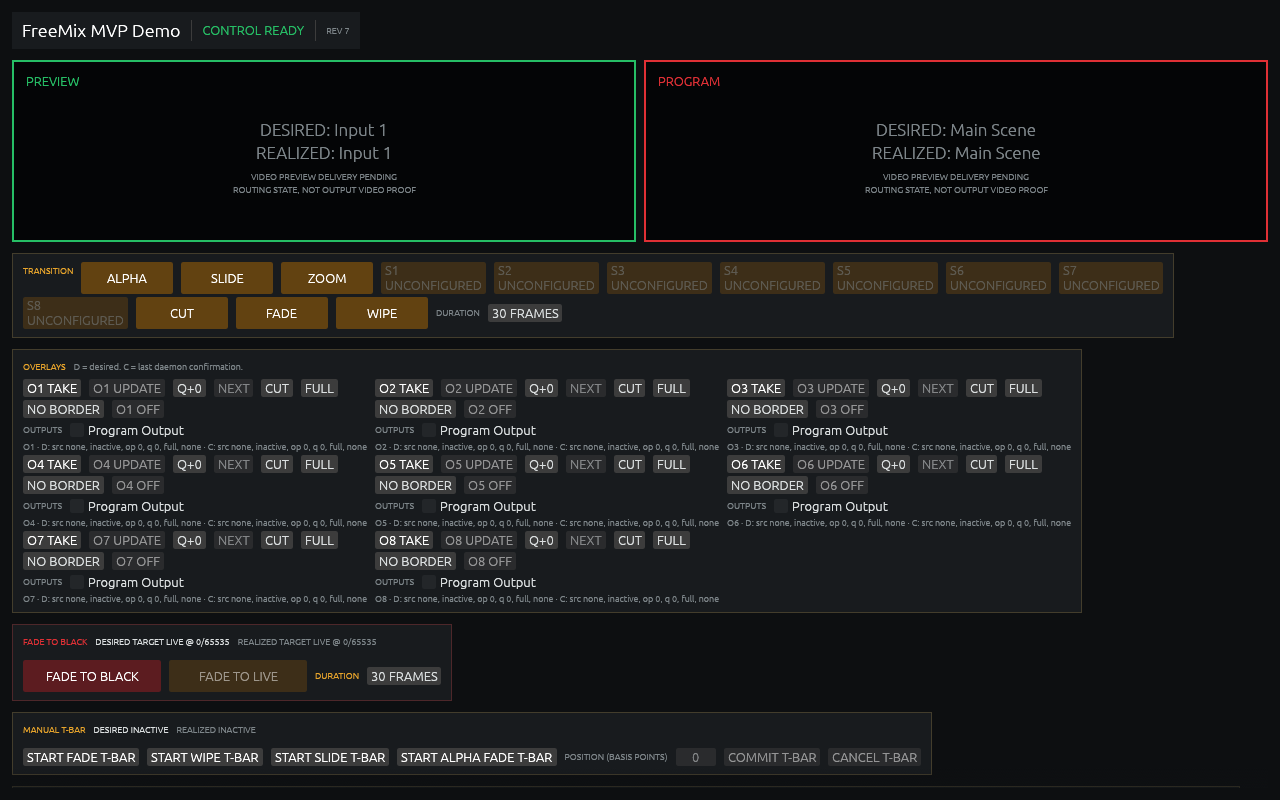
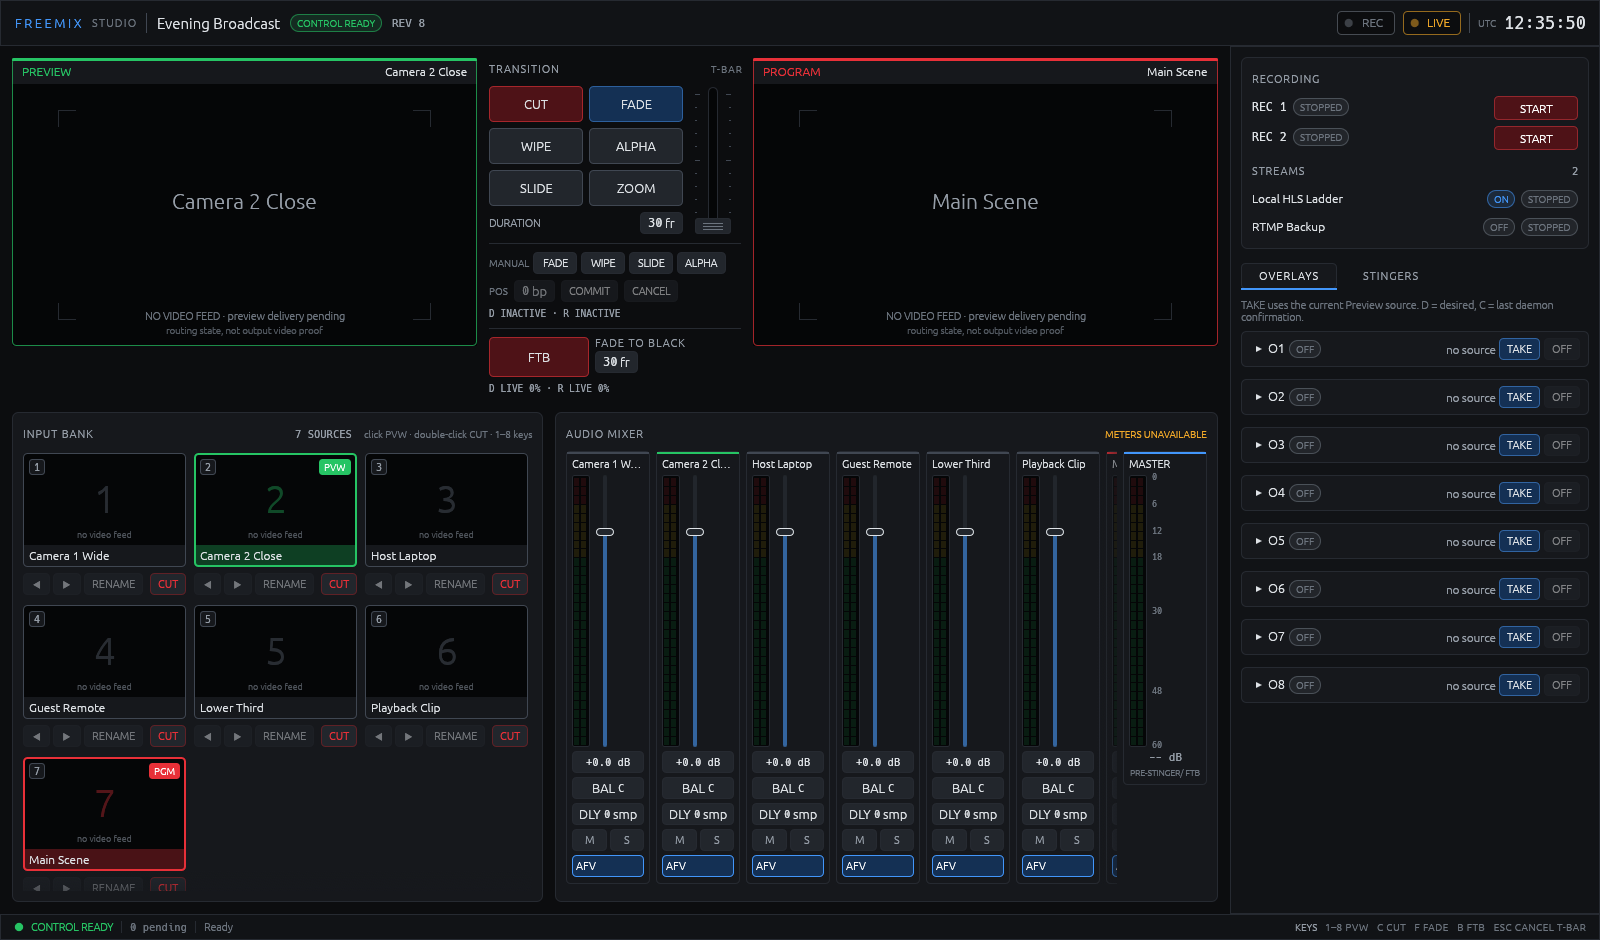
docs(progress): refresh Studio screenshots for the production layout

diff --git a/docs/progress/README.md b/docs/progress/README.md
@@ -2,37 +2,81 @@
 
 Captured from the native `freemix-studio` console running headless on this
 development host (Linux aarch64, Xvfb + Mesa lavapipe software Vulkan). The
-supervised daemon runs in simulated mode, so audio meters report
-`UNAVAILABLE` and the monitor wells show replicated routing state with the
-explicit `VIDEO PREVIEW DELIVERY PENDING` note rather than output video.
+supervised daemon runs in simulated mode, so the mixer header reports
+`METERS UNAVAILABLE` with unlit meter wells, and the Preview/Program monitors
+show replicated routing state over a dark 16:9 well with the explicit
+`NO VIDEO FEED · preview delivery pending` caption rather than output video.
+
+The console layout: a top bar (show name, connection pill, revision, `REC` and
+`LIVE` on-air badges, UTC clock); Preview and Program monitors with tally
+headers around the transition column (Cut/Fade/Wipe/Alpha/Slide/Zoom keys,
+shared duration, vertical manual T-bar with its start/commit/cancel keys, and
+Fade-to-Black); the input bank as tally-bordered tiles (click = Preview,
+double-click or `CUT` = Preview then Cut); the audio mixer with vertical
+channel strips (segmented peak/RMS meters, fader, gain/balance/delay, M/S/AFV)
+and a pinned Master meter strip; a side panel with recording and stream status
+above Overlays/Stingers tabs; and a bottom status bar with the latest
+result/notice and keyboard hints.
 
 | File | What it shows |
 |---|---|
-| `studio-console-top.png` | Default 1280x800 window: header with readiness/revision, Program/Preview monitor wells, the transition row (Cut/Fade/Wipe/AlphaFade/Slide/Zoom plus eight unconfigured stinger slots), all eight overlay channels in reachable rows, and the Fade-to-Black and manual T-bar panels. |
-| `studio-console-stopped.png` | Scrolled lower console: Fade-to-Black, manual T-bar, per-input audio strips, the stream roster (local HLS ladder desired-running plus an RTMP backup), the two-row **RECORDING** panel with both recorder slots `STOPPED` and their `START` actions, and the input bank with Preview/Program tally. |
-| `studio-console-recording.png` | The same console with independent per-slot recording: `REC 1 STOPPED` with its `START` action beside `REC 2 RECORDING` with its `STOP` action. |
+| `studio-console-overview.png` | 1920x1080 overview: REC 2 recording (red `REC` badge lit), overlay O1 taken from Preview and confirmed `ON AIR` (also badged on the Program header), the HLS ladder desired running but not reported live (amber `LIVE` outline), Camera 2 Close on Preview and Main Scene on Program. |
+| `studio-console-top.png` | The default 1600x940 window, idle: both recorder slots `STOPPED` with their `START` keys, overlays collapsed to one row per channel. |
+| `studio-console-stopped.png` | The compact 1280x800 layout with both recorder slots `STOPPED`; the input bank and mixer scroll inside their cards and the Master strip stays pinned. |
+| `studio-console-recording.png` | 1600x940 with independent per-slot recording (`REC 1 STOPPED` / `START` beside `REC 2 RECORDING` / `STOP`) and the Stingers tab showing all eight unconfigured slots. |
 
-The demo show used for the captures has six simulated inputs, one scene input
-with two picture-in-picture layers, an output, a two-rung local HLS ladder
-target, an RTMP target, and the scene routed to Program.
+The demo show used for the captures ("Evening Broadcast") has six simulated
+inputs, one scene input ("Main Scene") with two picture-in-picture layers, an
+audio bus, an output, a two-rung local HLS ladder target (desired running), an
+RTMP target (stopped), the scene routed to Program and Camera 2 Close on
+Preview.
 
 ## Reproducing
 
 ```sh
+cargo build -p freemix-cli -p freemixd -p freemix-studio
+
 # A show with inputs, a scene, an output, and stream targets.
 freemix-cli demo demo.freemix program.ppm
-# (author inputs/scene/output/streams with the other freemix-cli commands)
+freemix-cli project-rename demo.freemix "Evening Broadcast"
+freemix-cli rename demo.freemix 1 "Camera 1 Wide"
+freemix-cli rename demo.freemix 2 "Camera 2 Close"
+freemix-cli input-add demo.freemix 3 "Host Laptop"
+freemix-cli input-add demo.freemix 4 "Guest Remote"
+freemix-cli simulated-solid-input-add demo.freemix 5 "Lower Third" 20 60 140 255
+freemix-cli input-add demo.freemix 6 "Playback Clip"
+freemix-cli scene-input-add demo.freemix 7 100 "Main Scene"
+freemix-cli scene-layer-add demo.freemix 100 1 0 "Wide Shot"
+freemix-cli scene-layer-add demo.freemix 100 4 1 "Guest PiP"
+freemix-cli scene-layer-geometry demo.freemix 100 0 0 0 1920 1080 0
+freemix-cli scene-layer-geometry demo.freemix 100 1 1360 740 480 270 0
+freemix-cli audio-bus-add demo.freemix 1 "Program Bus"
+freemix-cli output-add demo.freemix 1 100 1 "Program Output"
+freemix-cli stream-add demo.freemix 1 1 hls:///tmp/hls "Local HLS Ladder" \
+    --startup reconcile-desired-state --rung 2500:1280x720 --rung 6000:1920x1080
+freemix-cli stream-add demo.freemix 2 1 rtmp://live.example.com/app demo-stream-key "RTMP Backup"
+freemix-cli stream-start demo.freemix 1
+freemix-cli preview demo.freemix 7 && freemix-cli cut demo.freemix
+freemix-cli preview demo.freemix 2
 
-Xvfb :99 -screen 0 2560x1600x24 &
+Xvfb :99 -screen 0 1920x1080x24 &
 DISPLAY=:99 \
 VK_DRIVER_FILES=/usr/share/vulkan/icd.d/lvp_icd.json \
 WGPU_BACKEND=vulkan \
 LIBGL_ALWAYS_SOFTWARE=1 \
-  freemix-studio --project demo.freemix --daemon freemixd &
+  freemix-studio --project demo.freemix --daemon freemixd --listen 127.0.0.1:7000 &
+
+# No window manager: size the window to the screen and park the pointer.
+WIN=$(DISPLAY=:99 xdotool search --onlyvisible --name "FreeMix Studio" | head -1)
+DISPLAY=:99 xdotool windowmove "$WIN" 0 0 windowsize "$WIN" 1920 1080
+DISPLAY=:99 xdotool mousemove 960 1076
+
+# Optional: recorder slot 2 for the recording state.
+freemix-cli remote-record-start 127.0.0.1:7000 --recorder 2
 
 DISPLAY=:99 import -window root shot.png
 ```
 
-The 1280x800 default window shows the top of the console; resize the window
-taller (for example with `xdotool windowsize`) and scroll to capture the lower
-panels, or use the `--record-start` CLI intent to capture the recording state.
+Software Vulkan is slow; allow roughly ten seconds after the window maps
+before capturing. The overview's overlay take was a click on O1 `TAKE` in the
+side panel; the recording capture clicked the `STINGERS` tab.
